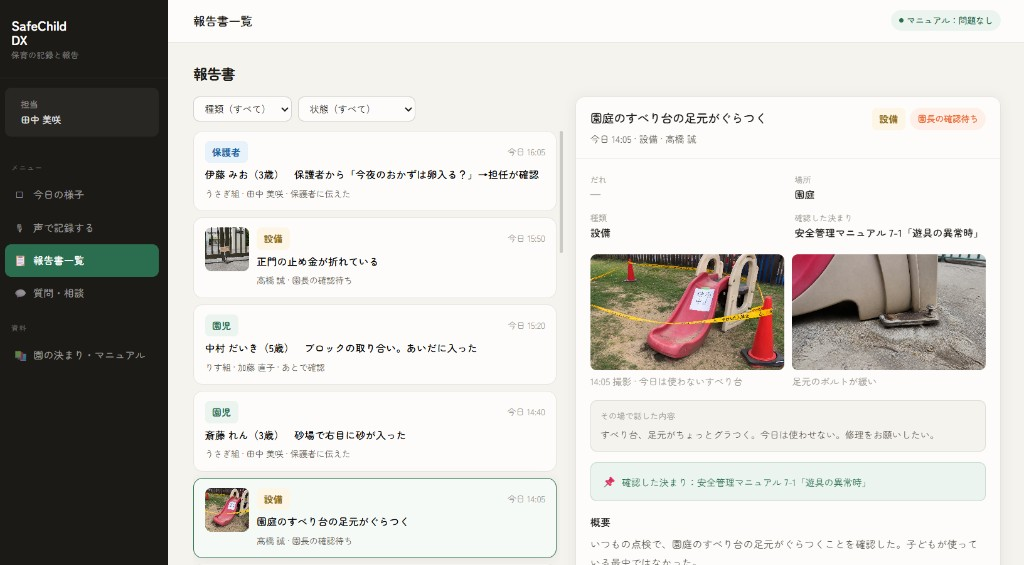
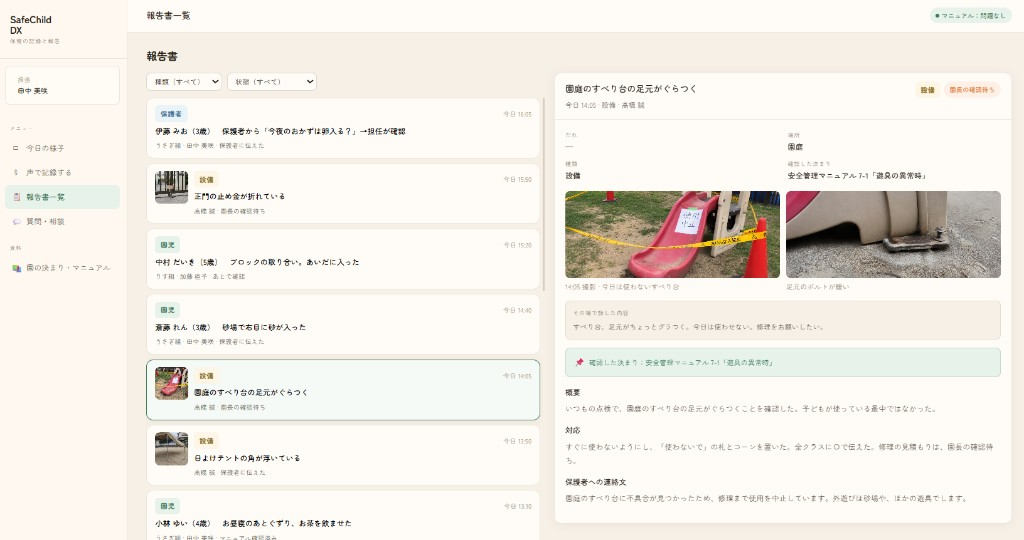
demo完成

diff --git a/src/components/home/demo-showcase/TopFeaturedDemoShowcase.tsx b/src/components/home/demo-showcase/TopFeaturedDemoShowcase.tsx
@@ -26,13 +26,13 @@ const childcareShots = [
     className: "col-span-2 aspect-[16/9]",
   },
   {
-    src: "/images/demo-showcase/childcare/report-injury.png",
-    alt: "園庭転倒の報告書。ルール照合と保護者連絡文まで揃った詳細",
+    src: "/images/demo-showcase/childcare/report-slide.png",
+    alt: "すべり台の報告書。写真付きで設備異常と根拠ルールが残る詳細",
     className: "aspect-[16/10]",
   },
   {
-    src: "/images/demo-showcase/childcare/report-slide.png",
-    alt: "すべり台の報告書。写真付きで設備異常と根拠ルールが残る詳細",
+    src: "/images/demo-showcase/childcare/chat.png",
+    alt: "質問・相談。園の決まりに沿って対応を確かめる画面",
     className: "aspect-[16/10]",
   },
 ];

diff --git a/src/lib/content/top-featured-demos.ts b/src/lib/content/top-featured-demos.ts
@@ -3,7 +3,7 @@ export const EXTERNAL_DEMO_URLS = {
   construction: "https://construction-demo-two.vercel.app",
   manufacturingIdeal: "https://axeonmanufacturing02.vercel.app/",
   approvalDiagram: "https://approval-diagram.vercel.app/",
-  childcare: "https://childcare-demonew.vercel.app/",
+  childcare: "https://childcare-demo-six.vercel.app/",
 } as const;
 
 export type TopFeaturedDemoId =
